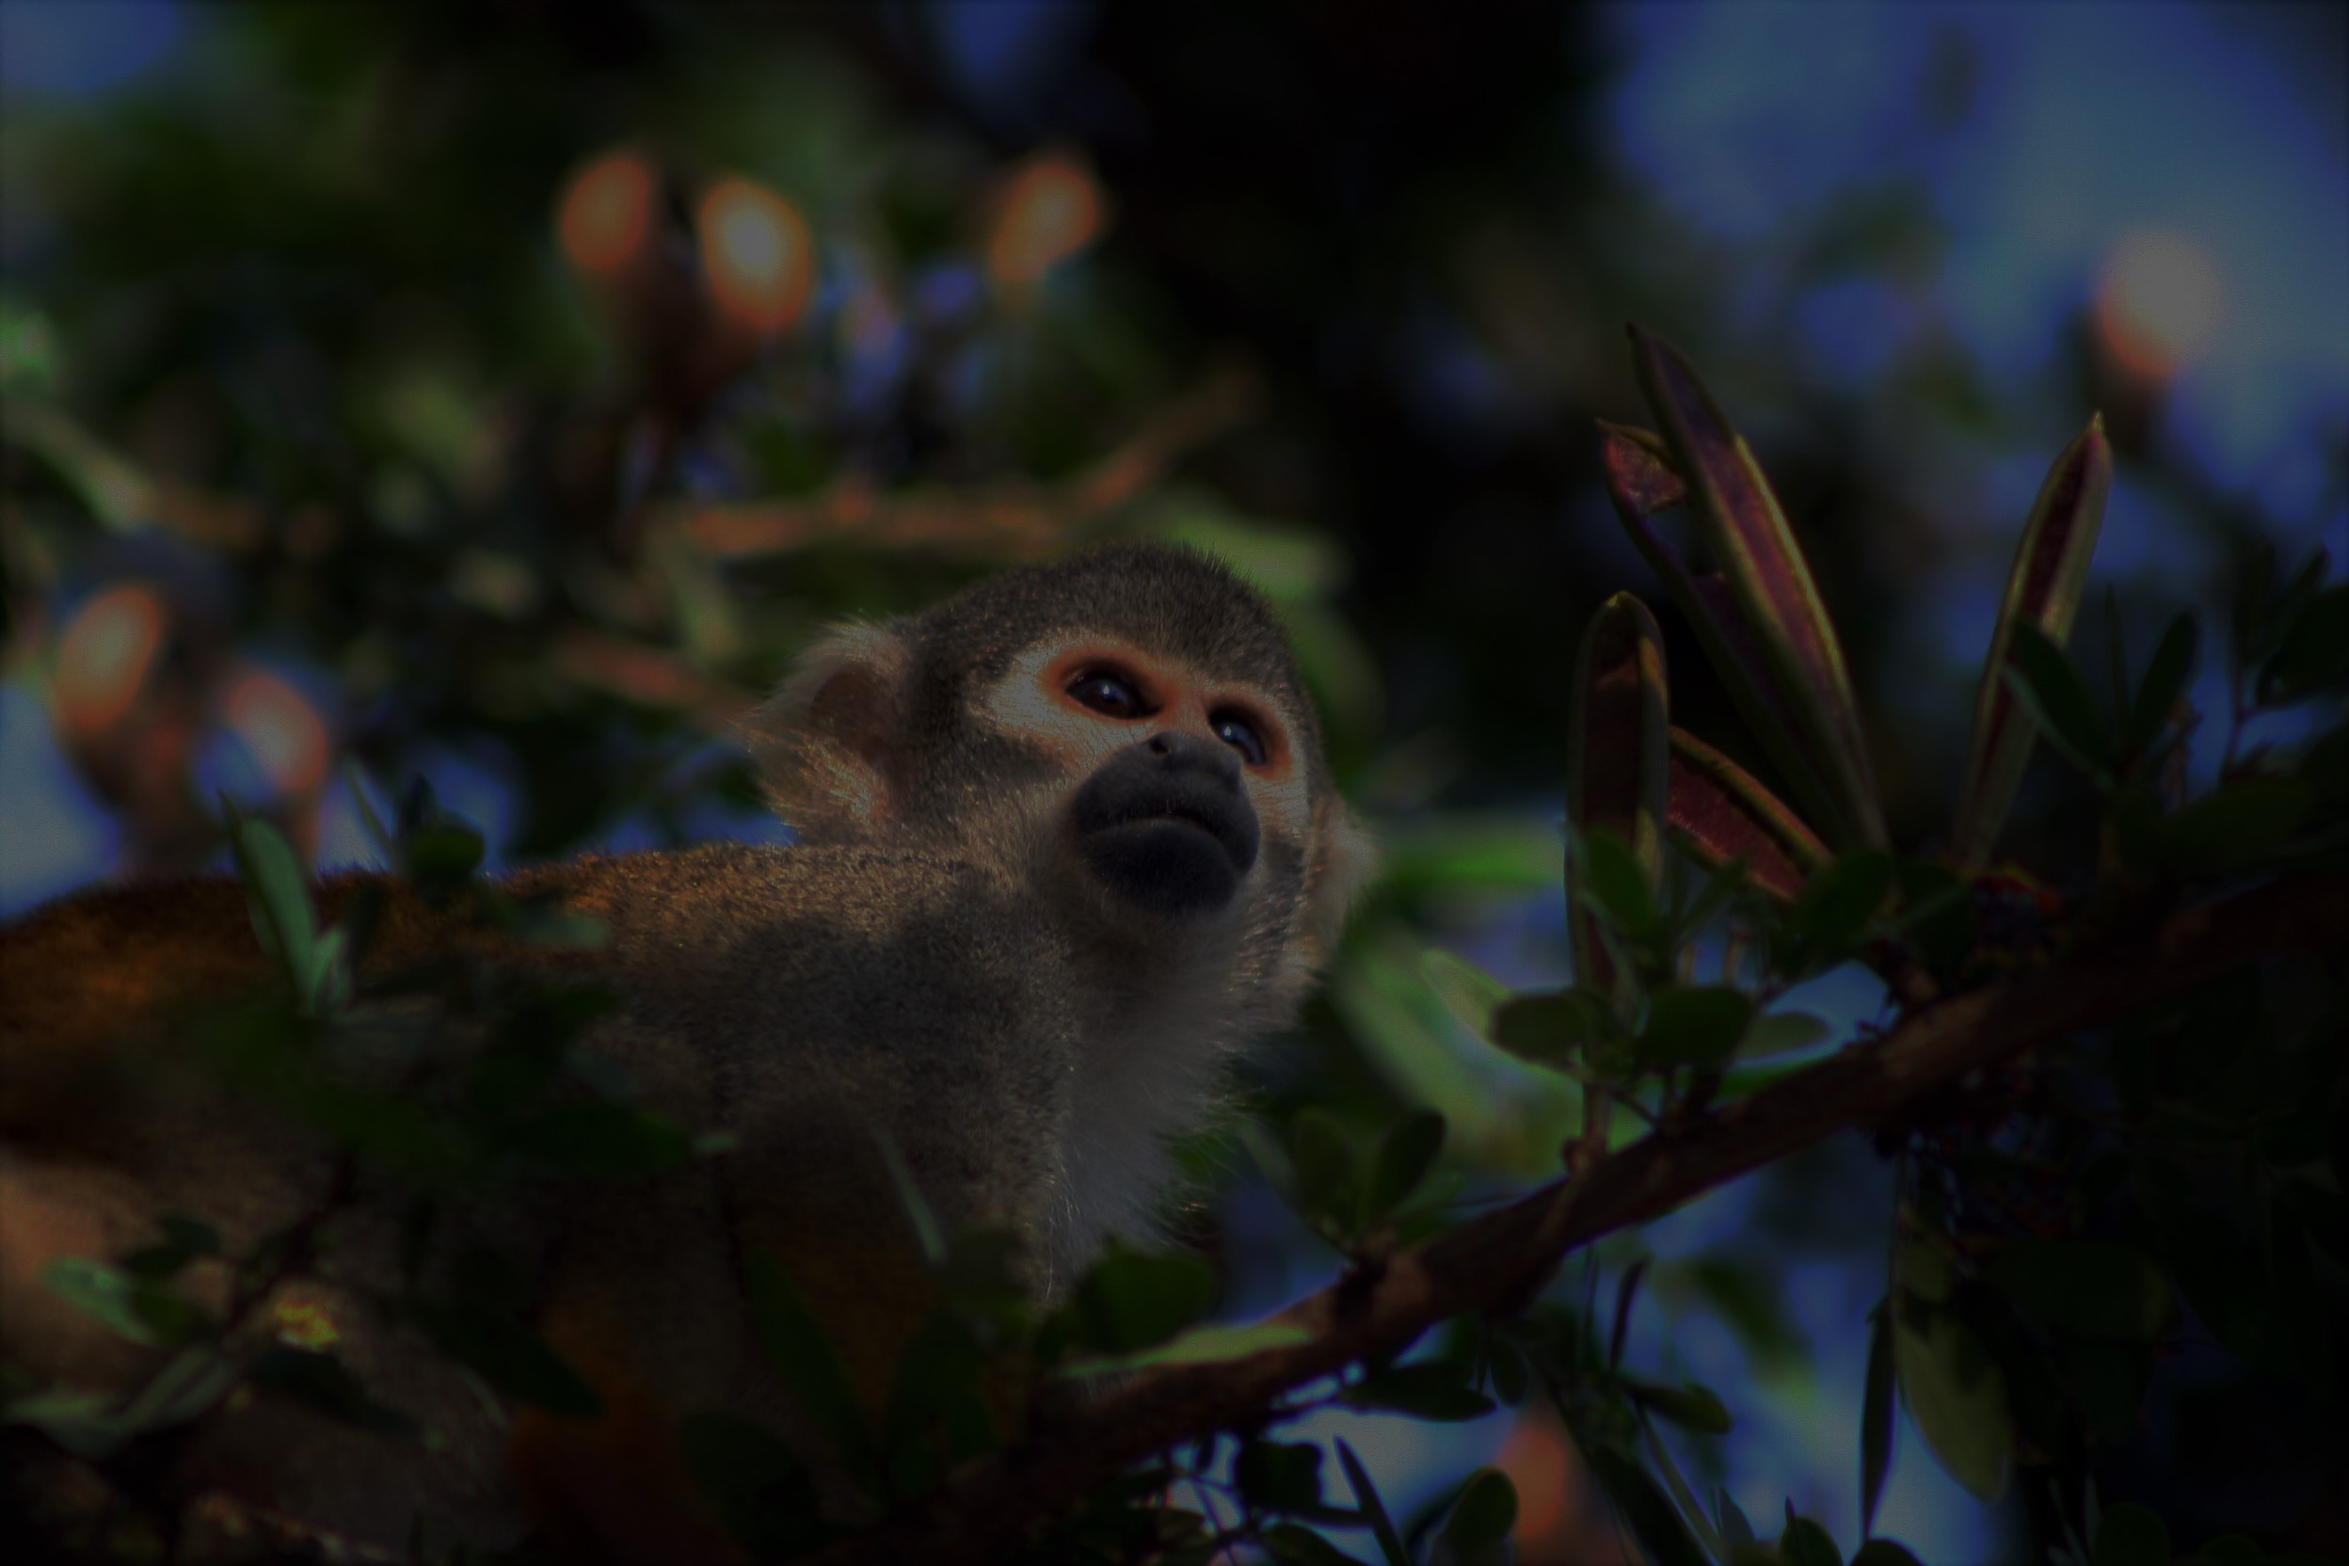
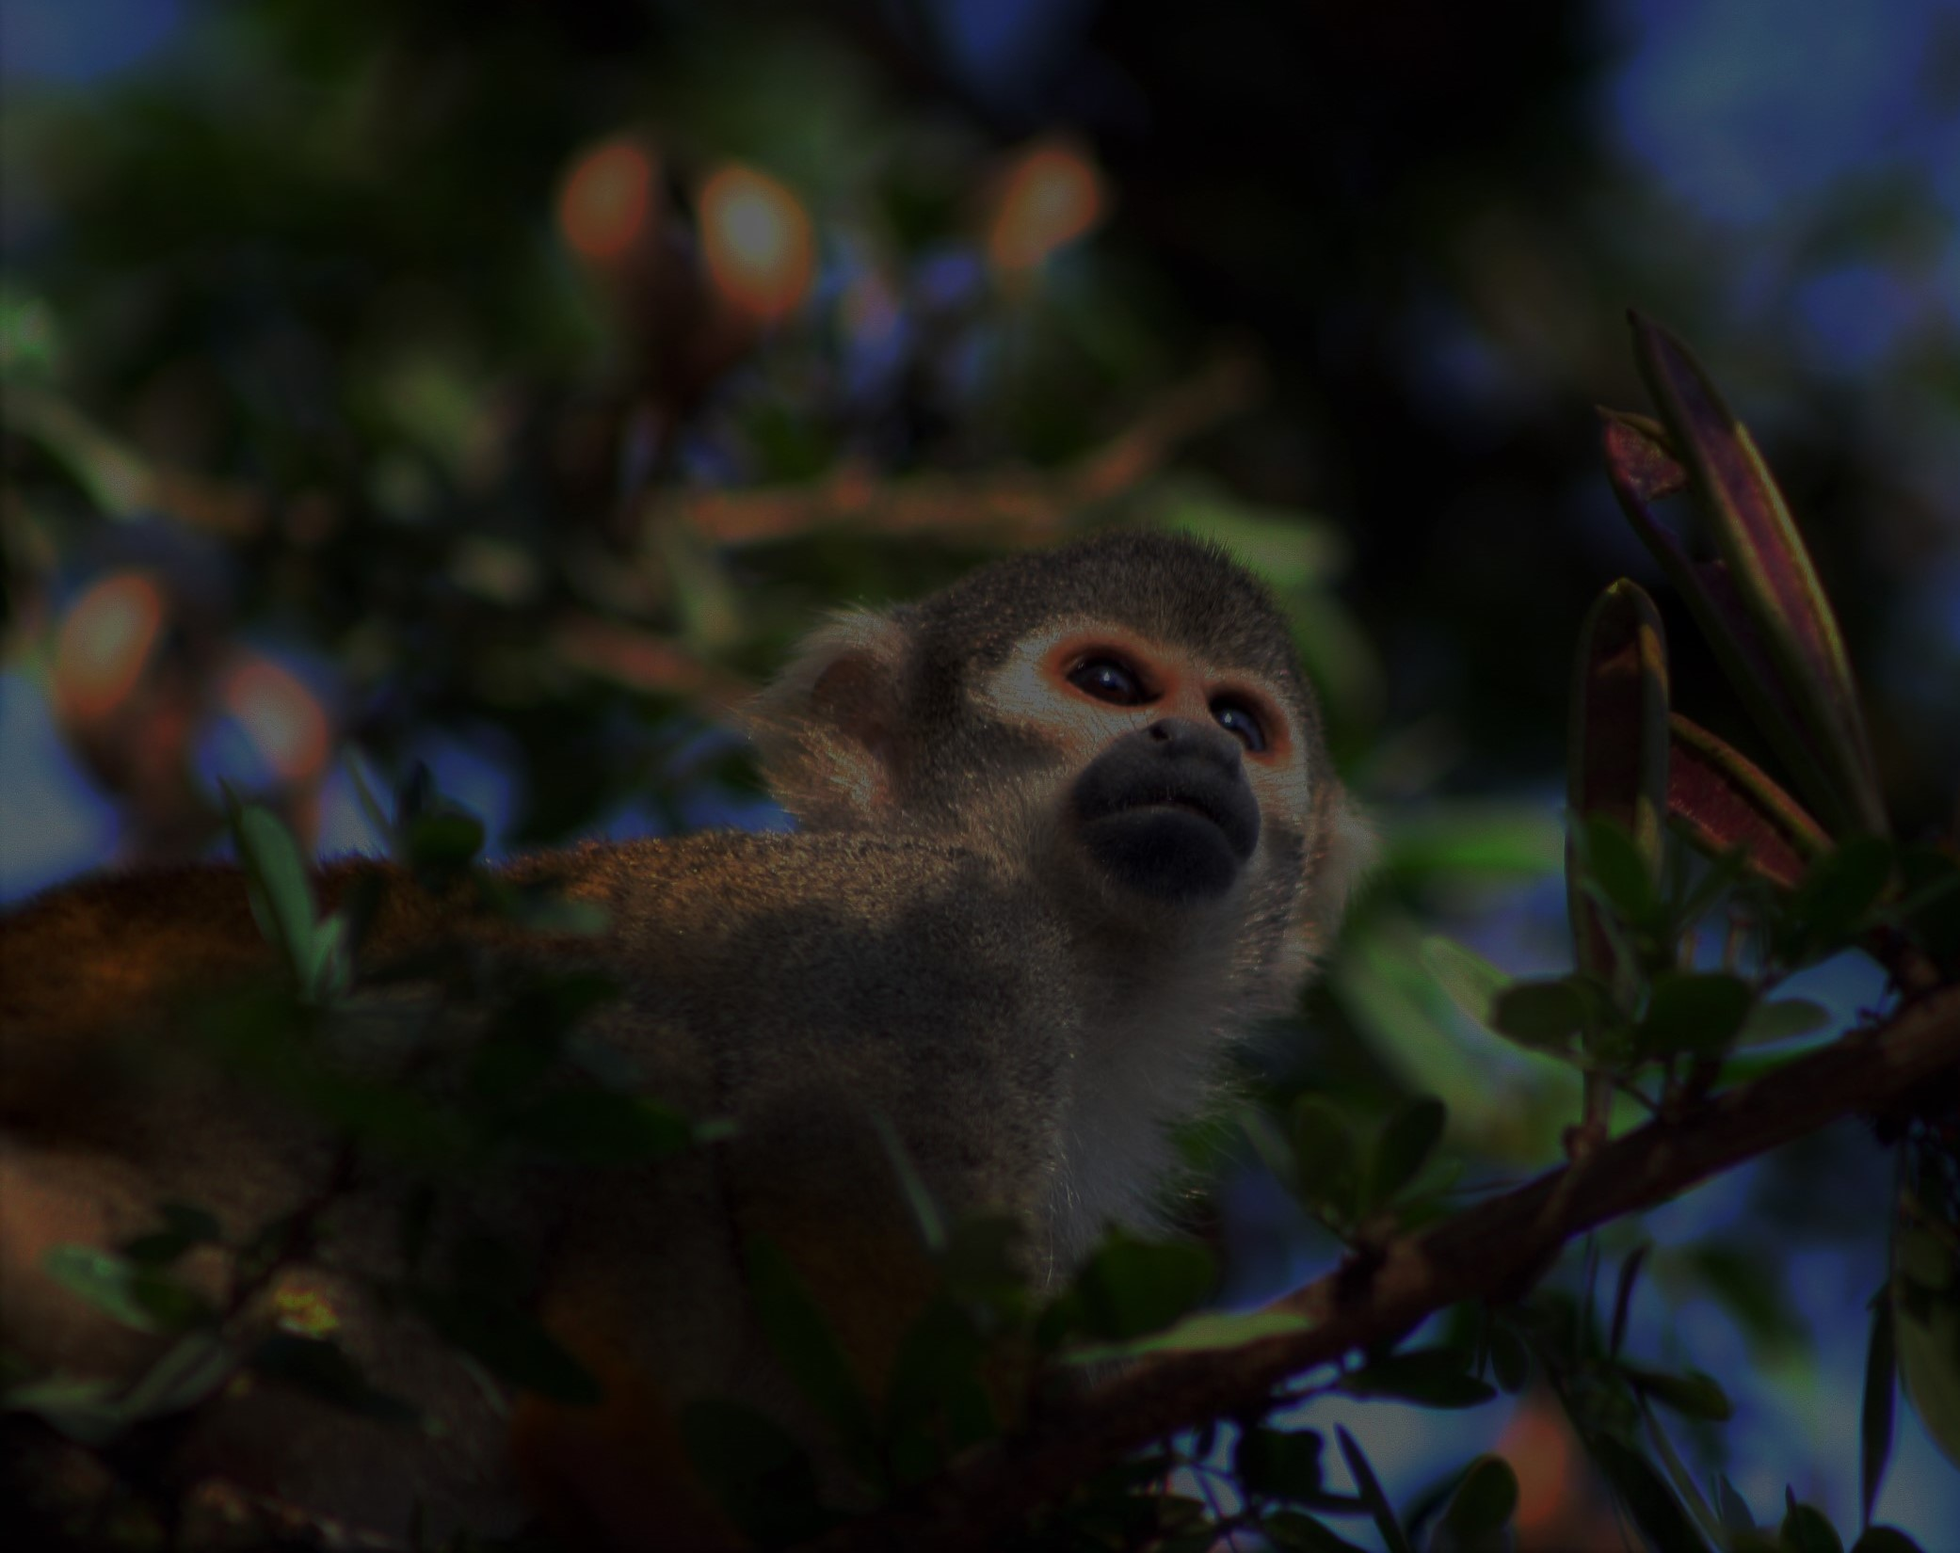
newPost

diff --git a/postFunctions.js b/postFunctions.js
@@ -29,3 +29,15 @@ function get22Aug2020(){
 function get23Aug2020(){
  document.getElementById("currentPost").innerHTML="23 Agosto 2020 Necesito una nueva foto para el blog. La que uso no cabe bien en mi celular. Sin embargo, no he tenido mucho tiempo libre esos últimos días y me gusta la foto de Perú como el fondo. Tal vez encontraré más fotos de la selva peruana tan deslumbrantes. Desafortunadamente, me quedan muchos platos que lavar aunque lavé un montón de ellos ayer. No obstante, lo haré eventualmente porque no hay nadie en mi casa que limpia la cocina de una manera eficaz.";
 }
+
+function get24Aug2020(){
+ document.getElementById("currentPost").innerHTML="24 Agosto 2020 Pasé el día caminando por mi vecindario. Está nublado hoy, pero tengo calor. Mañana tendré un examen importante en la clase de cálculo. Será la última tarea y estoy muy emocionada. Después, podré disfrutar del resto del verano. Por cierto, compré un nombre en Google esta tarde para que cualquier persona pueda encontrar mi sitio web en una búsqueda. Por último, he cambiado de imagen para el fondo de una pantalla pequeña. Creo escoger un mono lindo.";
+}
+
+function get25Aug2020(){
+ document.getElementById("currentPost").innerHTML="25 Agosto 2020 Acabé de entregar mi examen de matemáticas. Fue el más fácil de todos los examens que he tomado este trimestre. Tuve que calcular el flujo y la circulación de unas líneas en un campo de vectores usando tres teoremas. No sé cuándo necesitaré esas técnicas; quizás durante la clase de física que voy a tomar muy pronto. Ahora tengo que montar en bicicleta a la tienda de comestibes porque nuestra sopa, la que cenaremos en tres horas, falta los fideos.";
+}
+
+function get26Aug2020(){
+ document.getElementById("currentPost").innerHTML="";
+}

diff --git a/BlogPosts.htm b/BlogPosts.htm
@@ -3,7 +3,6 @@
 <body>
 <head> 
   <link rel="stylesheet" type="text/css" href="formatNav.css">
-
 </head>
 
  <ul>
@@ -24,7 +23,7 @@
 <p id="currentPost"></p>
 
 <h1 id="latestPost">Último Post</h1>
-<button2 id="23Aug2020" onclick="get23Aug2020();">23</button2>
+<button2 id="25Aug2020" onclick="get25Aug2020();">25</button2>
 
 
 <h1 id="moreContent">Más contenido:</h1>
@@ -35,8 +34,10 @@
 <button1 id="19Aug2020" onclick="get19Aug2020();">19</button1>
 <button1 id="20Aug2020" onclick="get20Aug2020();">20</button1>
 <button1 id="21Aug2020" onclick="get21Aug2020();">21</button1>
-<br>
 <button1 id="22Aug2020" onclick="get22Aug2020();">22</button1>
+<br>
+<button1 id="23Aug2020" onclick="get23Aug2020();">23</button1>
+<button1 id="24Aug2020" onclick="get24Aug2020();">24</button1>
 
 
 <footer>

diff --git a/formatNav.css b/formatNav.css
@@ -1,7 +1,7 @@
 body{
  background:url("peru.jpg");
  background-repeat: no-repeat;
- background-size: cover;
+ background-size: 100% 100%;
  height: 100%;
  background-color:black;
  padding-top: 50px;
@@ -11,7 +11,7 @@ body{
 body {
  margin: 0 auto; 
  font-size: 1.5em; 
- line-height: 2.0em;
+ line-height: 1.7em;
  font-family: 'Courier', monospace; 
  color: white; 
  font-weight: 300;
@@ -107,7 +107,7 @@ font-size: 30px;
 height:40px;
 }
 
-@media screen and (max-width:600px) {
+@media screen and (max-width:700px) {
  
   body{
    background:url("monkey.jpg");

diff --git a/BlogPoemas.htm b/BlogPoemas.htm
@@ -14,7 +14,7 @@
   <li><a href="BlogPoemas.htm">Poemas</a></li>
  </ul>
 
-<p3>¡Haz clic!</p3>
+<p3>No escribo poemas, pero esta página es para el día en el que me convierta en poeta.</p3>
 
 <h3>Último Poema</h3>
 
@@ -26,7 +26,7 @@
 <hr>
 
 <footer>
-	<p4>Alicia escribe en español - Actualizado 16 Aug 2020</p4>
+	<p4>Alicia escribe en español - Actualizado 25 Aug 2020</p4>
         <link rel="stylesheet" type="text/css" href="formatFoot.css">
 </body>
 </html>

diff --git a/BlogCuentos.htm b/BlogCuentos.htm
@@ -13,7 +13,7 @@
   <li><a href="BlogPoemas.htm">Poemas</a></li>
  </ul>
 
-<p2 style="font-family:ariel;">¡Que disfrutes de mis cuentos!</p2>
+<p2>¡Que disfrutes de mis cuentos!</p2>
 
 <hr>
 
